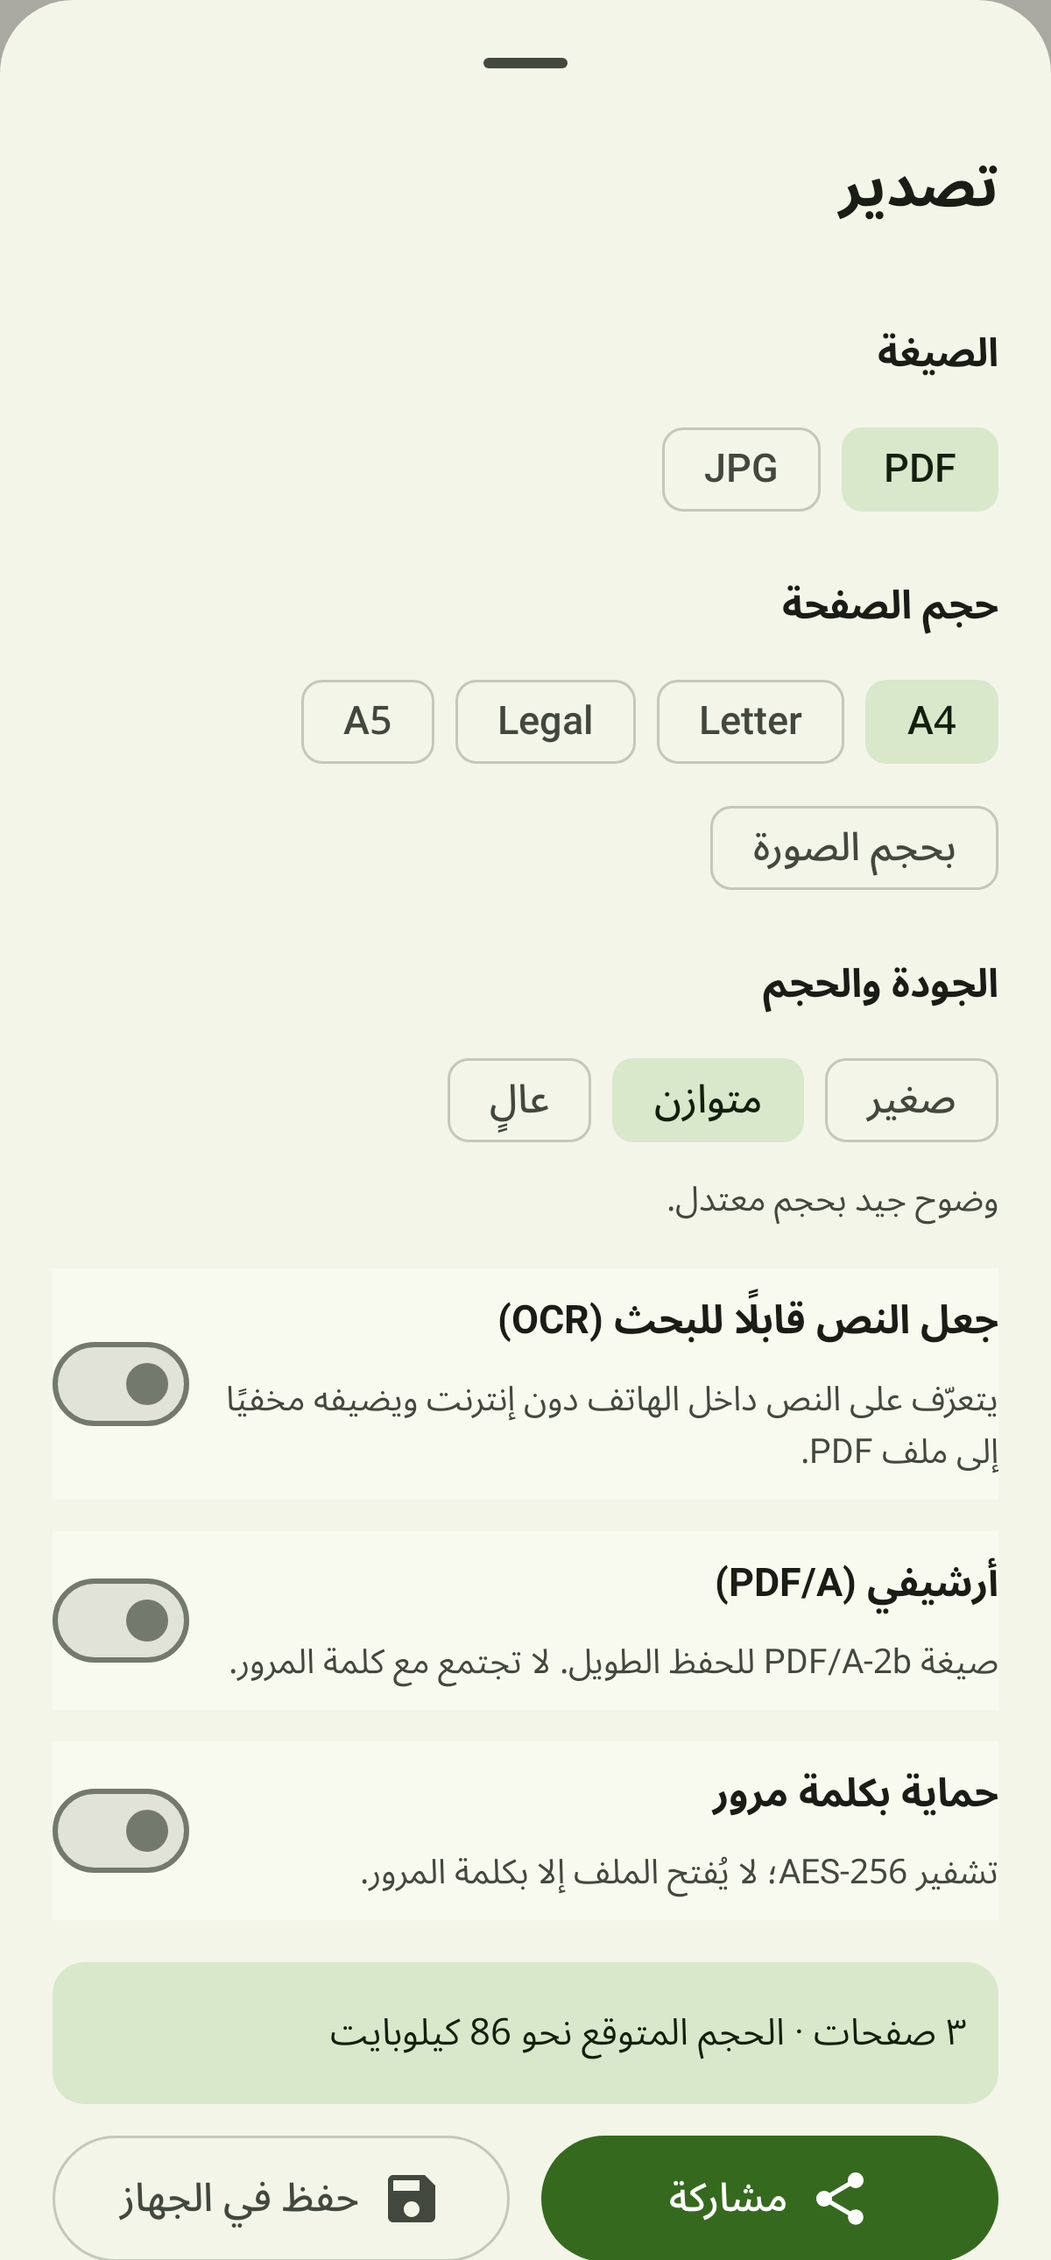
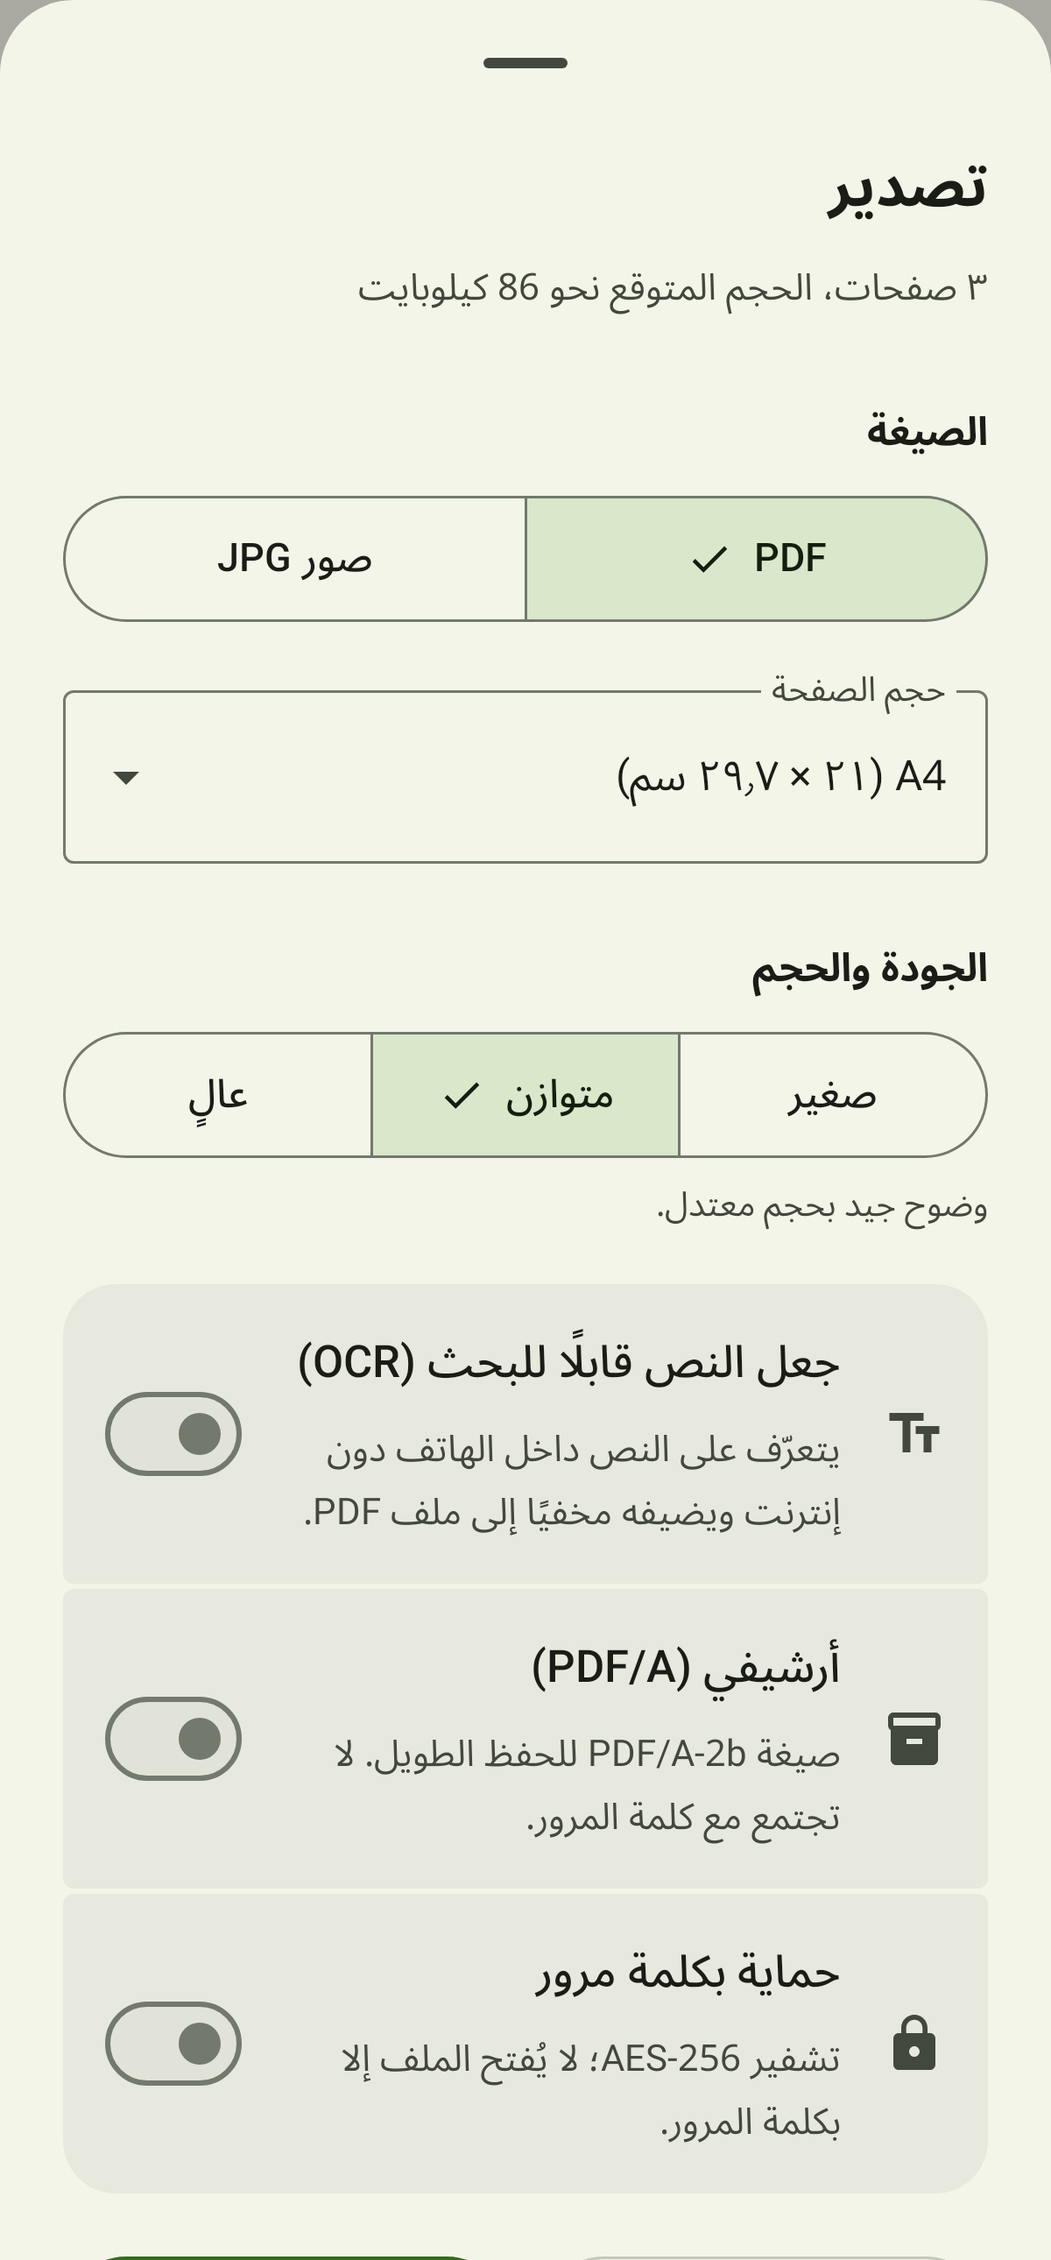
Design step 9: export sheet with segmented choices, size dropdown, grouped options
Header shows pages and estimated size (live); PDF/JPG and quality as
segmented buttons; page size as a dropdown with dimensions in locale digits;
OCR / PDF/A / password as grouped switch rows (PDF/A and password exclude
each other, with the reason); progress footer with Cancel; Save (secondary)
and Share (primary) at the bottom; the redundant Close button is gone.

diff --git a/app/src/main/java/com/fastkiwi/scan/ui/EditorScreen.kt b/app/src/main/java/com/fastkiwi/scan/ui/EditorScreen.kt
@@ -44,6 +44,9 @@ import androidx.compose.material.icons.filled.Visibility
 import androidx.compose.material.icons.filled.VisibilityOff
 import androidx.compose.material3.BottomAppBar
 import androidx.compose.material3.Button
+import androidx.compose.material3.ExposedDropdownMenuBox
+import androidx.compose.material3.ExposedDropdownMenuDefaults
+import androidx.compose.material3.ExposedDropdownMenuAnchorType
 import androidx.compose.material3.FilledTonalButton
 import androidx.compose.material3.Card
 import androidx.compose.material3.DropdownMenu
@@ -274,10 +277,16 @@ private fun PageTile(vm: AppViewModel, docId: String, index: Int, count: Int, pa
     }
 }
 
+/**
+ * Export sheet (design spec §3.6): segmented format and quality, a page-size
+ * dropdown, grouped option rows (OCR, PDF/A, password; PDF/A and password
+ * exclude each other), live page count and size, and Save / Share at the bottom.
+ */
 @OptIn(ExperimentalMaterial3Api::class)
 @Composable
 fun ExportSheet(vm: AppViewModel, docId: String, onDismiss: () -> Unit) {
     val s = vm.settings
+    val ctx = LocalContext.current
     var asJpeg by remember { mutableStateOf(false) }
     var pageSize by remember { mutableStateOf(s.pageSize) }
     var quality by remember { mutableStateOf(s.quality) }
@@ -287,8 +296,8 @@ fun ExportSheet(vm: AppViewModel, docId: String, onDismiss: () -> Unit) {
     var archival by remember { mutableStateOf(false) }
     var password by remember { mutableStateOf("") }
     var showPw by remember { mutableStateOf(false) }
+    var sizeMenu by remember { mutableStateOf(false) }
     val busy by vm.busy
-    val progress by vm.progress
 
     fun options(): ExportOptions {
         s.pageSize = pageSize; s.quality = quality; s.ocr = ocr; s.ocrLanguage = ocrLang
@@ -302,57 +311,87 @@ fun ExportSheet(vm: AppViewModel, docId: String, onDismiss: () -> Unit) {
         if (uri != null) vm.saveJpegsTo(docId, options(), uri)
     }
 
-    ModalBottomSheet(onDismissRequest = onDismiss, sheetState = rememberModalBottomSheetState(skipPartiallyExpanded = true)) {
-        Column(Modifier.fillMaxWidth().verticalScroll(rememberScrollState()).padding(horizontal = 20.dp).padding(bottom = 24.dp)) {
+    ModalBottomSheet(
+        onDismissRequest = onDismiss,
+        sheetState = rememberModalBottomSheetState(skipPartiallyExpanded = true),
+        containerColor = MaterialTheme.colorScheme.surfaceContainerLow,
+    ) {
+        Column(Modifier.fillMaxWidth().verticalScroll(rememberScrollState()).padding(horizontal = Dimens.sheet).padding(bottom = Dimens.xl)) {
+            // Header: title, then what will be shared (live).
             Text(stringResource(R.string.export), style = MaterialTheme.typography.titleLarge)
-            Spacer(Modifier.height(12.dp))
+            val pageCount = vm.doc(docId)?.pages?.size ?: 0
+            val estimate by produceState<Long?>(null, quality, asJpeg) {
+                value = null
+                value = vm.estimateSize(docId, ExportOptions(pageSize, quality))
+            }
+            val pagesText = pluralStringResource(R.plurals.page_count, pageCount, pageCount)
+            val sizeText = estimate?.let { stringResource(R.string.estimated_size, formatSize(it)) } ?: stringResource(R.string.estimating_size)
+            Text(
+                pagesText + LocalFormat.metaSep(ctx.resources.configuration.locales[0]) + sizeText,
+                style = MaterialTheme.typography.bodyMedium, color = MaterialTheme.colorScheme.onSurfaceVariant,
+                modifier = Modifier.semantics { liveRegion = androidx.compose.ui.semantics.LiveRegionMode.Polite },
+            )
 
             Label(R.string.format)
-            ChipRow {
-                FilterChip(selected = !asJpeg, onClick = { asJpeg = false }, label = { Text("PDF") })
-                FilterChip(selected = asJpeg, onClick = { asJpeg = true }, label = { Text("JPG") })
-            }
+            ChoiceSegmentedRow(listOf("PDF", stringResource(R.string.format_jpg_images)), if (asJpeg) 1 else 0, { asJpeg = it == 1 })
+
             if (!asJpeg) {
-                Label(R.string.page_size)
-                ChipRow {
-                    PageSize.entries.forEach { ps ->
-                        FilterChip(selected = pageSize == ps, onClick = { pageSize = ps }, label = {
-                            Text(stringResource(when (ps) {
-                                PageSize.A4 -> R.string.size_a4; PageSize.LETTER -> R.string.size_letter; PageSize.LEGAL -> R.string.size_legal
-                                PageSize.A5 -> R.string.size_a5; PageSize.FIT -> R.string.size_fit
-                            }))
-                        })
+                Spacer(Modifier.height(Dimens.l))
+                ExposedDropdownMenuBox(expanded = sizeMenu, onExpandedChange = { sizeMenu = it }) {
+                    OutlinedTextField(
+                        value = pageSizeLabel(pageSize),
+                        onValueChange = {},
+                        readOnly = true,
+                        label = { Text(stringResource(R.string.page_size)) },
+                        trailingIcon = { ExposedDropdownMenuDefaults.TrailingIcon(expanded = sizeMenu) },
+                        modifier = Modifier.fillMaxWidth().menuAnchor(ExposedDropdownMenuAnchorType.PrimaryNotEditable),
+                    )
+                    ExposedDropdownMenu(expanded = sizeMenu, onDismissRequest = { sizeMenu = false }) {
+                        PageSize.entries.forEach { ps ->
+                            DropdownMenuItem(text = { Text(pageSizeLabel(ps)) }, onClick = { pageSize = ps; sizeMenu = false })
+                        }
                     }
                 }
             }
+
             Label(R.string.quality)
-            ChipRow {
-                Quality.entries.forEach { q ->
-                    FilterChip(selected = quality == q, onClick = { quality = q }, label = {
-                        Text(stringResource(when (q) { Quality.SMALL -> R.string.quality_small; Quality.BALANCED -> R.string.quality_balanced; Quality.HIGH -> R.string.quality_high }))
-                    })
-                }
-            }
+            ChoiceSegmentedRow(
+                listOf(stringResource(R.string.quality_small), stringResource(R.string.quality_balanced), stringResource(R.string.quality_high)),
+                quality.ordinal, { quality = Quality.entries[it] },
+            )
             Text(
                 stringResource(when (quality) { Quality.SMALL -> R.string.quality_small_hint; Quality.BALANCED -> R.string.quality_balanced_hint; Quality.HIGH -> R.string.quality_high_hint }),
-                style = MaterialTheme.typography.bodySmall, color = MaterialTheme.colorScheme.onSurfaceVariant,
+                style = MaterialTheme.typography.bodySmall, color = MaterialTheme.colorScheme.onSurfaceVariant, modifier = Modifier.padding(top = Dimens.xs),
             )
 
             if (!asJpeg) {
-                SwitchRow(R.string.ocr_title, R.string.ocr_hint, ocr) { ocr = it }
-                if (ocr) {
-                    ChipRow {
-                        OcrLanguage.entries.forEach { l ->
-                            FilterChip(selected = ocrLang == l, onClick = { ocrLang = l }, label = {
-                                Text(stringResource(when (l) { OcrLanguage.ARABIC_ENGLISH -> R.string.ocr_ara_eng; OcrLanguage.ENGLISH -> R.string.ocr_eng; OcrLanguage.ARABIC -> R.string.ocr_ara }))
-                            })
-                        }
+                Spacer(Modifier.height(Dimens.l))
+                val groupColor = MaterialTheme.colorScheme.surfaceContainerHigh
+                SettingsGroup(3) { i, shape ->
+                    when (i) {
+                        0 -> SettingsSwitchRow(KiwiIcons.ocr(), stringResource(R.string.ocr_title), stringResource(R.string.ocr_hint), ocr, shape, color = groupColor) { ocr = it }
+                        1 -> SettingsSwitchRow(
+                            KiwiIcons.pdfa(), stringResource(R.string.pdfa_title),
+                            stringResource(if (protect) R.string.pdfa_excluded else R.string.pdfa_hint),
+                            archival && !protect, shape, enabled = !protect, color = groupColor,
+                        ) { archival = it }
+                        else -> SettingsSwitchRow(
+                            KiwiIcons.lock(), stringResource(R.string.password_title),
+                            stringResource(if (archival) R.string.password_excluded else R.string.password_hint),
+                            protect && !archival, shape, enabled = !archival, color = groupColor,
+                        ) { protect = it }
                     }
-                    Text(stringResource(R.string.ocr_quality_note), style = MaterialTheme.typography.bodySmall, color = MaterialTheme.colorScheme.onSurfaceVariant)
                 }
-                SwitchRow(R.string.pdfa_title, R.string.pdfa_hint, archival && !protect) { archival = it; if (it) protect = false }
-                SwitchRow(R.string.password_title, R.string.password_hint, protect) { protect = it; if (it) archival = false }
+                if (ocr) {
+                    Spacer(Modifier.height(Dimens.m))
+                    ChoiceSegmentedRow(
+                        listOf(stringResource(R.string.ocr_ara_eng), stringResource(R.string.ocr_eng), stringResource(R.string.ocr_ara)),
+                        ocrLang.ordinal, { ocrLang = OcrLanguage.entries[it] },
+                    )
+                    Text(stringResource(R.string.ocr_quality_note), style = MaterialTheme.typography.bodySmall, color = MaterialTheme.colorScheme.onSurfaceVariant, modifier = Modifier.padding(top = Dimens.xs))
+                }
                 if (protect) {
+                    Spacer(Modifier.height(Dimens.m))
                     OutlinedTextField(
                         value = password,
                         onValueChange = { v -> password = v.filter { it.code in 0x20..0x7E } },
@@ -362,96 +401,76 @@ fun ExportSheet(vm: AppViewModel, docId: String, onDismiss: () -> Unit) {
                         visualTransformation = if (showPw) VisualTransformation.None else PasswordVisualTransformation(),
                         keyboardOptions = KeyboardOptions(keyboardType = KeyboardType.Password),
                         trailingIcon = {
-                            IconButton(onClick = { showPw = !showPw }) {
-                                Icon(if (showPw) Icons.Filled.VisibilityOff else Icons.Filled.Visibility, stringResource(if (showPw) R.string.hide_password else R.string.show_password))
-                            }
+                            TooltipIconButton(
+                                if (showPw) KiwiIcons.visibilityOff() else KiwiIcons.visibility(),
+                                stringResource(if (showPw) R.string.hide_password else R.string.show_password), { showPw = !showPw },
+                            )
                         },
                         modifier = Modifier.fillMaxWidth(),
                     )
                 }
             }
 
-            Spacer(Modifier.height(16.dp))
-            // What will be shared: page count and an estimated size, before tapping Share.
-            val pageCount = vm.doc(docId)?.pages?.size ?: 0
-            val estimate by produceState<Long?>(null, quality, asJpeg) {
-                value = null
-                value = vm.estimateSize(docId, ExportOptions(pageSize, quality))
-            }
-            Surface(color = MaterialTheme.colorScheme.secondaryContainer, shape = androidx.compose.foundation.shape.RoundedCornerShape(12.dp), modifier = Modifier.fillMaxWidth()) {
-                val pagesText = pluralStringResource(R.plurals.page_count, pageCount, pageCount)
-                val sizeText = estimate?.let { stringResource(R.string.estimated_size, formatSize(it)) } ?: stringResource(R.string.estimating_size)
-                Text(
-                    "$pagesText · $sizeText",
-                    style = MaterialTheme.typography.bodyMedium,
-                    modifier = Modifier.padding(12.dp).semantics { liveRegion = androidx.compose.ui.semantics.LiveRegionMode.Polite },
-                )
-            }
-            Spacer(Modifier.height(12.dp))
-            // Export in progress: shown the moment Share/Save is tapped, with a real Cancel.
+            Spacer(Modifier.height(Dimens.xl))
+            // Footer: progress with a real Cancel while exporting, otherwise Save / Share.
             val ex = vm.exportState.value
             if (ex != null) {
-                Surface(color = MaterialTheme.colorScheme.surfaceContainerHigh, shape = MaterialTheme.shapes.medium, modifier = Modifier.fillMaxWidth()) {
-                    Column(Modifier.padding(12.dp).semantics { liveRegion = androidx.compose.ui.semantics.LiveRegionMode.Polite }) {
-                        if (ex.total > 0) {
-                            LinearProgressIndicator(progress = { ex.page.toFloat() / ex.total }, modifier = Modifier.fillMaxWidth())
-                            val page = (ex.page + 1).coerceAtMost(ex.total)
-                            Text(
-                                stringResource(if (ex.readingText) R.string.export_reading_text else R.string.export_preparing, page, ex.total),
-                                style = MaterialTheme.typography.bodyMedium, modifier = Modifier.padding(top = 8.dp),
-                            )
-                        } else {
-                            LinearProgressIndicator(Modifier.fillMaxWidth())
-                            Text(stringResource(R.string.export_starting), style = MaterialTheme.typography.bodyMedium, modifier = Modifier.padding(top = 8.dp))
-                        }
-                        OutlinedButton(onClick = { vm.cancelExport() }, modifier = Modifier.align(Alignment.End).padding(top = 4.dp).heightIn(min = 48.dp)) {
-                            Text(stringResource(R.string.cancel))
-                        }
+                Column(Modifier.semantics { liveRegion = androidx.compose.ui.semantics.LiveRegionMode.Polite }) {
+                    if (ex.total > 0) {
+                        LinearProgressIndicator(progress = { ex.page.toFloat() / ex.total }, modifier = Modifier.fillMaxWidth())
+                        val page = (ex.page + 1).coerceAtMost(ex.total)
+                        Text(
+                            stringResource(if (ex.readingText) R.string.export_reading_text else R.string.export_preparing, page, ex.total),
+                            style = MaterialTheme.typography.bodyMedium, modifier = Modifier.padding(top = Dimens.s),
+                        )
+                    } else {
+                        LinearProgressIndicator(Modifier.fillMaxWidth())
+                        Text(stringResource(R.string.export_starting), style = MaterialTheme.typography.bodyMedium, modifier = Modifier.padding(top = Dimens.s))
+                    }
+                    TextButton(onClick = { vm.cancelExport() }, modifier = Modifier.align(Alignment.End).heightIn(min = 48.dp)) {
+                        Text(stringResource(R.string.cancel))
                     }
                 }
-                Spacer(Modifier.height(12.dp))
+            } else {
+                val canGo = busy == 0 && (!protect || asJpeg || password.isNotEmpty())
+                ButtonPair(
+                    secondary = { m ->
+                        OutlinedButton(onClick = {
+                            if (asJpeg) folderLauncher.launch(null) else saveLauncher.launch(vm.suggestedFileName(docId))
+                        }, enabled = canGo, modifier = m) {
+                            Icon(KiwiIcons.download(), null, Modifier.size(20.dp)); Spacer(Modifier.width(Dimens.s)); Text(stringResource(R.string.save_to_device))
+                        }
+                    },
+                    primary = { m ->
+                        Button(onClick = { vm.share(docId, options(), asJpeg) }, enabled = canGo, modifier = m) {
+                            Icon(KiwiIcons.share(), null, Modifier.size(20.dp)); Spacer(Modifier.width(Dimens.s)); Text(stringResource(R.string.share))
+                        }
+                    },
+                )
             }
-            val canGo = ex == null && busy == 0 && (!protect || asJpeg || password.isNotEmpty())
-            Row(horizontalArrangement = Arrangement.spacedBy(12.dp)) {
-                Button(onClick = { vm.share(docId, options(), asJpeg) }, enabled = canGo, modifier = Modifier.weight(1f)) {
-                    Icon(Icons.Filled.Share, null); Spacer(Modifier.width(8.dp)); Text(stringResource(R.string.share))
-                }
-                OutlinedButton(onClick = {
-                    if (asJpeg) folderLauncher.launch(null) else saveLauncher.launch(vm.suggestedFileName(docId))
-                }, enabled = canGo, modifier = Modifier.weight(1f)) {
-                    Icon(Icons.Filled.Save, null); Spacer(Modifier.width(8.dp)); Text(stringResource(R.string.save_to_device))
-                }
-            }
-            TextButton(onClick = onDismiss, modifier = Modifier.align(Alignment.End)) { Text(stringResource(R.string.close)) }
         }
+    }
+}
+
+/** «A4 (٢١ × ٢٩٫٧ سم)»: name plus size in the locale's digits. */
+@Composable
+private fun pageSizeLabel(ps: PageSize): String {
+    val locale = LocalContext.current.resources.configuration.locales[0]
+    val nf = java.text.NumberFormat.getNumberInstance(locale).apply { maximumFractionDigits = 1 }
+    @Composable fun dims(w: Double, h: Double, unit: Int) = stringResource(R.string.size_dims, nf.format(w), nf.format(h), stringResource(unit))
+    return when (ps) {
+        PageSize.A4 -> "A4 (" + dims(21.0, 29.7, R.string.unit_cm) + ")"
+        PageSize.LETTER -> "Letter (" + dims(8.5, 11.0, R.string.unit_in) + ")"
+        PageSize.LEGAL -> "Legal (" + dims(8.5, 14.0, R.string.unit_in) + ")"
+        PageSize.A5 -> "A5 (" + dims(14.8, 21.0, R.string.unit_cm) + ")"
+        PageSize.FIT -> stringResource(R.string.size_fit)
     }
 }
 
 @Composable
 private fun Label(res: Int) {
-    Text(stringResource(res), style = MaterialTheme.typography.titleSmall, modifier = Modifier.padding(top = 12.dp, bottom = 4.dp).semantics { heading() })
-}
-
-@OptIn(androidx.compose.foundation.layout.ExperimentalLayoutApi::class)
-@Composable
-private fun ChipRow(content: @Composable () -> Unit) {
-    androidx.compose.foundation.layout.FlowRow(horizontalArrangement = Arrangement.spacedBy(8.dp)) { content() }
-}
-
-@Composable
-fun SwitchRow(title: Int, hint: Int, checked: Boolean, onChange: (Boolean) -> Unit) {
-    Surface(
-        onClick = { onChange(!checked) },
-        modifier = Modifier.fillMaxWidth().padding(top = 12.dp).semantics {
-            toggleableState = if (checked) ToggleableState.On else ToggleableState.Off
-        },
-    ) {
-        Row(verticalAlignment = Alignment.CenterVertically, modifier = Modifier.padding(vertical = 4.dp)) {
-            Column(Modifier.weight(1f)) {
-                Text(stringResource(title), style = MaterialTheme.typography.titleSmall)
-                Text(stringResource(hint), style = MaterialTheme.typography.bodySmall, color = MaterialTheme.colorScheme.onSurfaceVariant)
-            }
-            Switch(checked = checked, onCheckedChange = null)
-        }
-    }
+    Text(
+        stringResource(res), style = MaterialTheme.typography.titleSmall,
+        modifier = Modifier.padding(top = Dimens.xl, bottom = Dimens.s).semantics { heading() },
+    )
 }
